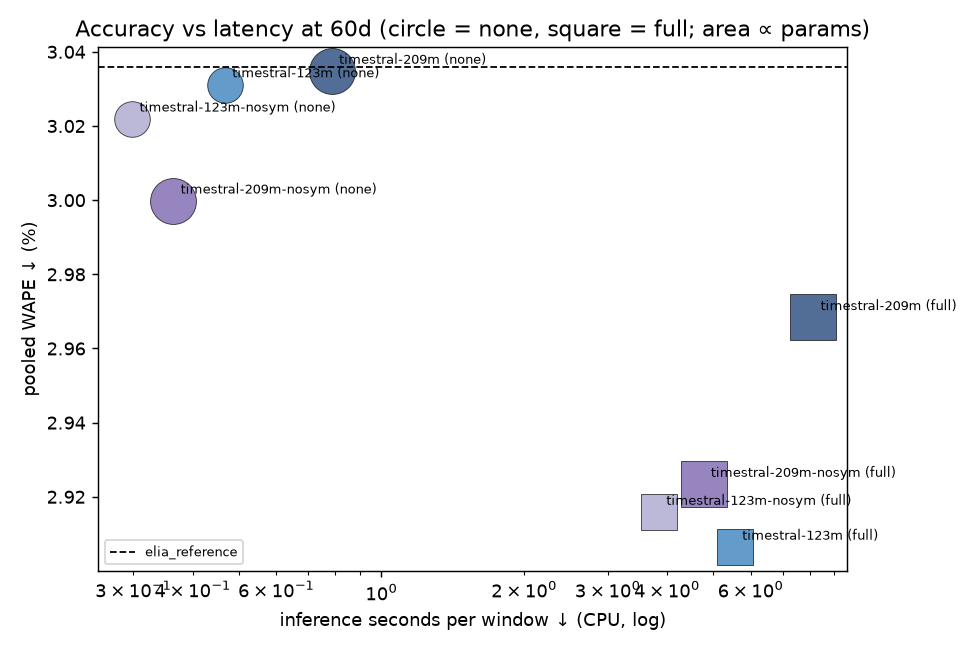
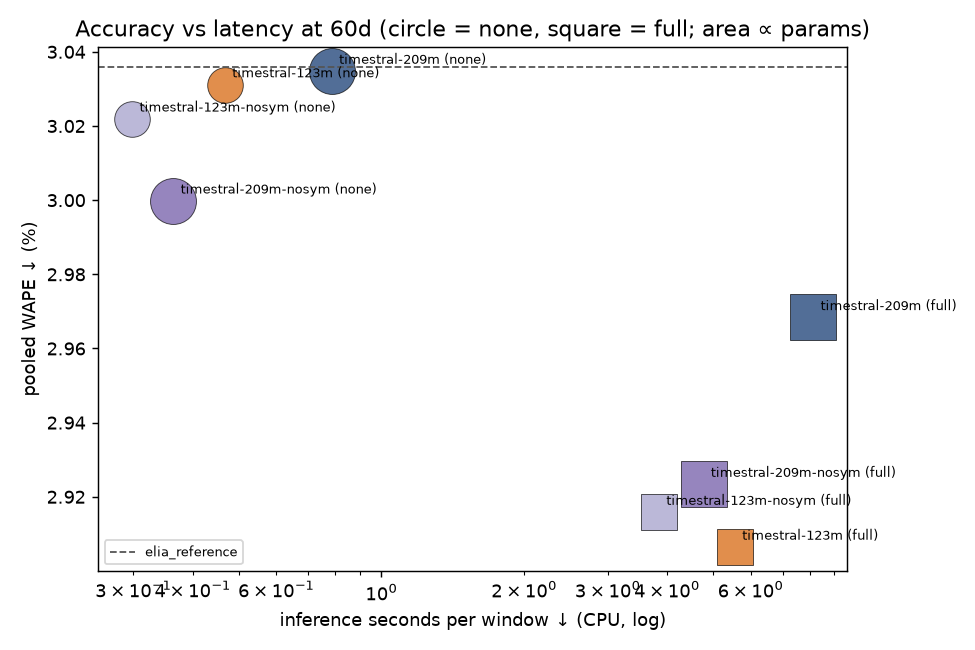
Okabe-Ito colours for the dashboard series (cards), regenerate figures
timestral-123m #D55E00, t0-gamma #0072B2, chronos-2 #009E73, elia_reference #555555.
Colour is not part of run_id; results are unchanged, figures and the README chart
are regenerated.

Changed region(s): [[0.7385, 0.8, 0.7692, 0.8923], [0.2154, 0.0923, 0.2462, 0.1538]]

diff --git a/README.md b/README.md
@@ -26,7 +26,7 @@ Full experiment summaries (context sweeps, slices, paired tests, figures) are tr
 
 ## Results
 <!-- results:start -->
-_Auto-filled by `bench summarize` (2026-11-13 15:49 UTC). Best configuration per model on 2025 (365 daily windows), pooled over all scored points; Δ is paired over the same days (negative = better than elia_reference). Context and covariates were selected on 2025 itself, so the best-per-model WAPE is optimistic; see the full context sweep in [the experiment summary](results/leaderboard/summary.md)._
+_Auto-filled by `bench summarize` (2026-11-20 16:57 UTC). Best configuration per model on 2025 (365 daily windows), pooled over all scored points; Δ is paired over the same days (negative = better than elia_reference). Context and covariates were selected on 2025 itself, so the best-per-model WAPE is optimistic; see the full context sweep in [the experiment summary](results/leaderboard/summary.md)._
 
 | model                   | covariates   | ctx (days)   |   WAPE ↓ % | CI95 %         |   median-window WAPE ↓ % | Δ vs elia_reference (pp) [CI95]   | days better   | CRPS≈ ↓ MW   |   per window ↓ s |
 |:------------------------|:-------------|:-------------|-----------:|:---------------|-------------------------:|:----------------------------------|:--------------|:-------------|-----------------:|

diff --git a/model_cards/t0-gamma.md b/model_cards/t0-gamma.md
@@ -20,7 +20,7 @@ outputs:
 device: [cpu, cuda]
 adapter: tsbench.models.t0:T0Adapter
 adapter_version: 1
-color: "#7b3294"
+color: "#0072B2"
 default_params: {batch_size: 16, trim_leading_missing: true, symmetric_averaging: true, clip_nonnegative: true, snap_integers: true}
 ---
 

diff --git a/model_cards/elia_reference.md b/model_cards/elia_reference.md
@@ -14,7 +14,7 @@ outputs: {type: quantiles, levels: [0.1, 0.5, 0.9]}
 device: [cpu]
 adapter: tsbench.models.baselines:EliaReferenceAdapter
 adapter_version: 1
-color: "#000000"
+color: "#555555"
 ignores_context_and_covariates: true
 needs_reference: true
 default_params: {}

diff --git a/model_cards/timestral-123m.md b/model_cards/timestral-123m.md
@@ -7,7 +7,7 @@ weights_date: "2026-10-15"
 training_data_disclosed: false
 revision: 5a147287addda85f6acd8da3fb8858fe9af7e8f7
 params: ~123M
-color: "#2171b5"
+color: "#D55E00"
 ---
 
 ## What it is

diff --git a/model_cards/chronos-2.md b/model_cards/chronos-2.md
@@ -20,7 +20,7 @@ outputs:
 device: [cpu, cuda]
 adapter: tsbench.models.chronos2:Chronos2Adapter
 adapter_version: 1
-color: "#e6550d"
+color: "#009E73"
 default_params: {batch_size: 64}
 ---
 
